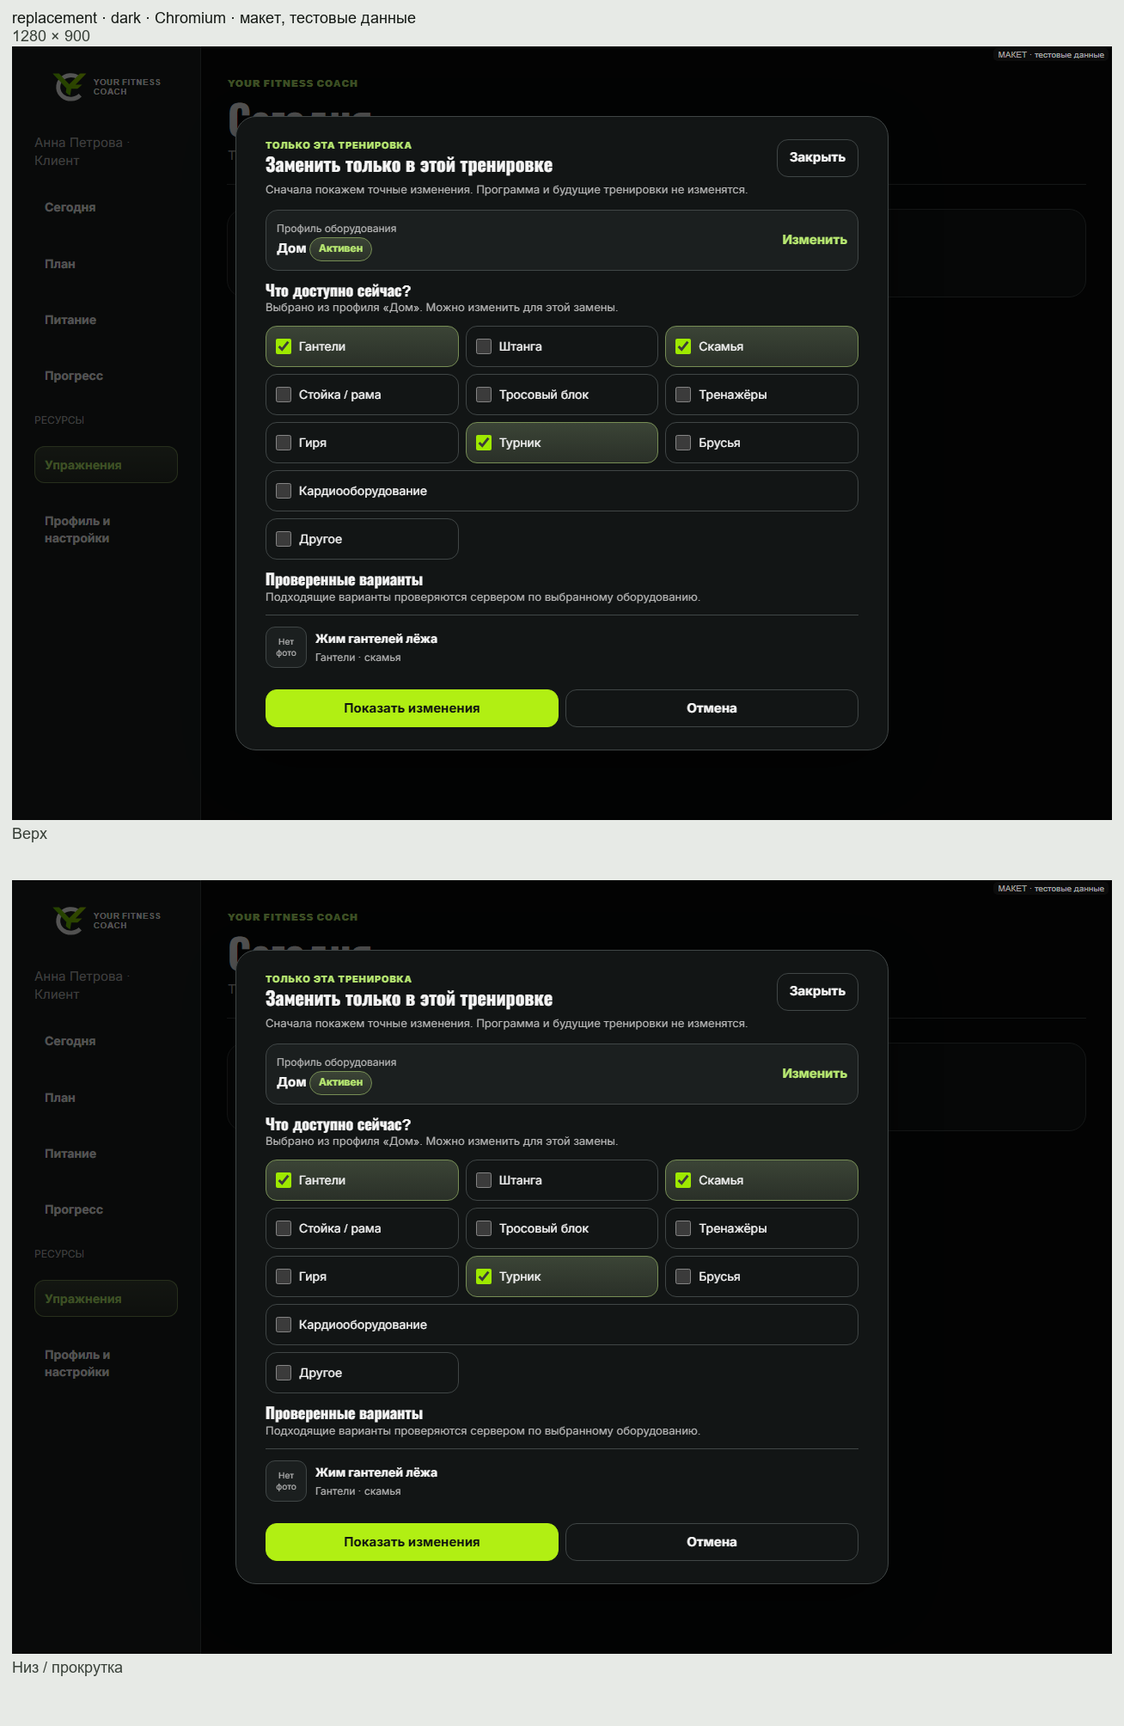
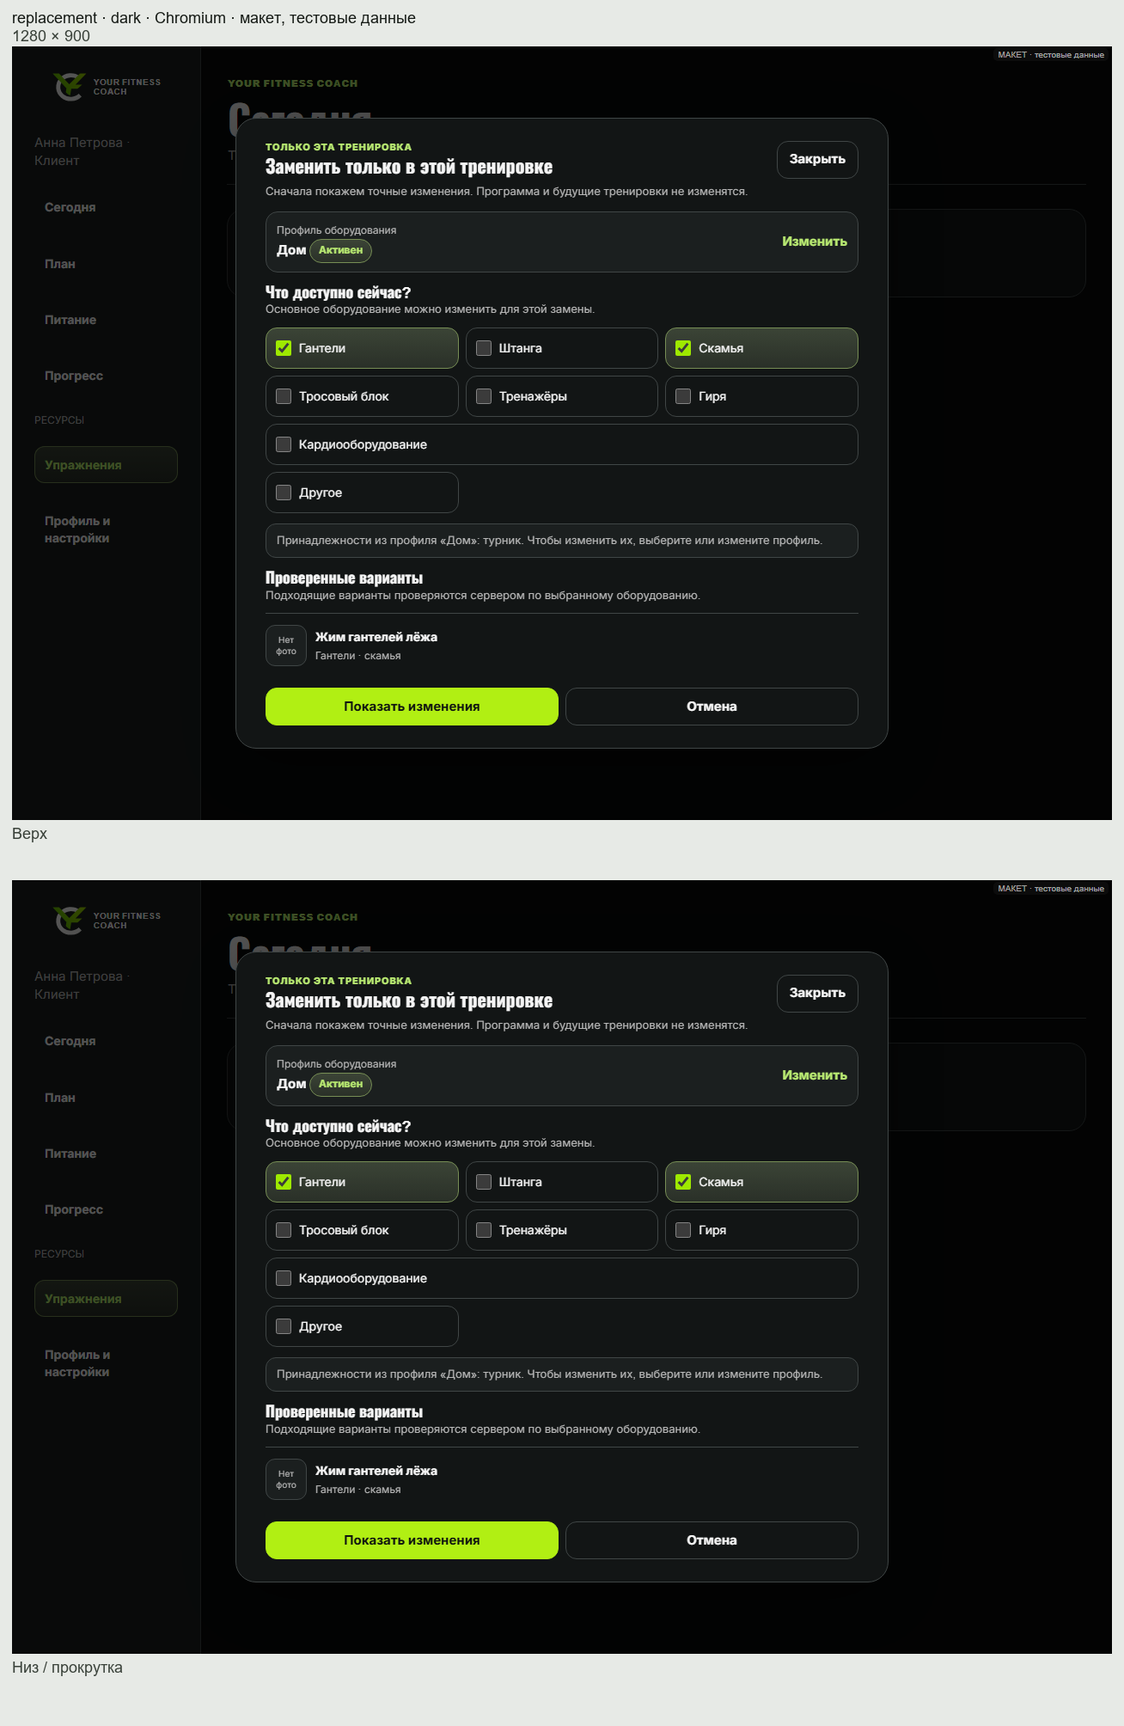
docs: clarify profile equipment in replacement mockup

diff --git a/docs/ux-proposals/issue-1203/prototype.html b/docs/ux-proposals/issue-1203/prototype.html
@@ -22,7 +22,7 @@ const profileContext=(name='Дом',destination='profiles')=>`<div class="contex
 const exercise=(title,details,badge='')=>`<div class="exercise"><div class="thumb">Нет<br>фото</div><div><strong>${title}</strong><small>${details}</small></div>${badge?`<span class="end">${badge}</span>`:''}</div>`;
 const profileRow=(name,details,active=false,editable=true)=>`<div class="profile-row row"><label class="profile-choice"><input type="radio" name="profile" ${active?'checked':''}><span><span class="row-title">${name}</span> ${active?'<span class="pill">Активен</span>':''}<span class="row-meta" style="display:block">${details}</span></span></label>${editable&&name!=='Без профиля'?link('editor-filled','Изменить','button text profile-action'):''}</div>`;
 const equipment=['Гантели','Штанга','Скамья','Стойка / рама','Тросовый блок','Тренажёры','Гиря','Турник','Брусья','Кардиооборудование','Другое'];
-const equipmentGrid=(filled)=>`<div class="choice-grid">${equipment.map(name=>{const checked=filled&&['Гантели','Скамья','Турник'].includes(name);return `<label class="equipment-choice ${checked?'checked':''} ${name==='Кардиооборудование'?'wide':''}"><input type="checkbox" ${checked?'checked':''}><span>${name}</span></label>`}).join('')}</div>`;
+const equipmentGrid=(filled,baseOnly=false)=>`<div class="choice-grid">${equipment.filter(name=>!baseOnly||!['Стойка / рама','Турник','Брусья'].includes(name)).map(name=>{const checked=filled&&['Гантели','Скамья','Турник'].includes(name);return `<label class="equipment-choice ${checked?'checked':''} ${name==='Кардиооборудование'?'wide':''}"><input type="checkbox" ${checked?'checked':''}><span>${name}</span></label>`}).join('')}</div>`;
 const app=document.querySelector('#app');
 function profiles(empty=false){return `${hero('Профили оборудования','Выберите набор для поиска упражнений. Программы, веса и история не изменятся.')}<section class="panel profile-layout"><div class="panel-head"><div><h2>Мои профили</h2><p class="hint">Активный профиль используется только для вас.</p></div></div><div class="section-gap">${profileRow('Без профиля','Показывать все упражнения')}${profileRow('Дом','Гантели · скамья · турник',!empty)}${profileRow('Тренажёрный зал','Штанга · стойка · тренажёры и ещё 4')}${profileRow('Поездка','Дополнительное оборудование не выбрано',empty)}</div><div class="section-gap">${link('editor-empty','Создать профиль','button primary full')}</div></section>`}
 function editor(filled,notice=''){const messages={offline:'<strong>Нет подключения</strong><br>Изменения пока не сохранены на сервере. Повторите сохранение после восстановления связи.',conflict:'<strong>Профиль изменён на другом устройстве</strong><br>Ваши изменения не сохранены. Загрузите актуальный профиль и проверьте его перед повторным сохранением.',error:'<strong>Не удалось сохранить профиль</strong><br>Проверьте подключение и повторите. Ваши изменения остаются на экране.'};return `${hero(filled?'Изменить профиль':'Новый профиль','Укажите оборудование, которое действительно доступно в этом месте.')}<section class="panel profile-layout stack">${notice?`<div class="offline" role="status">${messages[notice]}</div>`:''}<label><span class="field-label">Название профиля</span><input type="text" value="${filled?'Дом':''}" placeholder="Например, Дом или Поездка"></label><div><h3>Что доступно?</h3><p class="hint">Собственный вес доступен всегда. Отметьте также скамью, турник и другие необходимые принадлежности.</p></div>${equipmentGrid(filled)}<div class="actions">${link('profiles','Сохранить','button primary')}${link('profiles','Отмена')}</div>${filled?link('delete-confirm','Удалить профиль','button text'):''}</section>`}
@@ -30,7 +30,7 @@ function catalog(mode){const noProfile=mode==='no-profile',all=mode==='all',empt
 function pickerContents(all=false){return `<input type="search" placeholder="Начните вводить название">${profileContext('Дом','picker-profile')}<div class="section-gap">${segments(all?'all':'available','picker')}</div><div class="section-gap row"><small>Найдено: ${all?'5':'3'}</small>${all?'':'<small>Скрыто: 2</small>'}</div>${exercise('Приседания с гантелями','Ноги · гантели')}${exercise('Жим гантелей лёжа','Грудь · гантели и скамья')}${all?exercise('Жим ногами','Ноги · тренажёр'):''}${exercise('Моё упражнение','Своё · оборудование нужно проверить','Проверить')}${all?exercise('Тяга верхнего блока','Спина · тросовый блок'):''}<p class="hint section-gap">Упражнения с неизвестным оборудованием остаются видимыми.</p>`}
 function builder(all=false){return `${hero('Создать или импортировать','Текущая программа, настройки и быстрые действия.','ПЛАН / МОЯ ПРОГРАММА')}<section class="panel"><h2>Создать свою программу</h2><div class="section-gap eyebrow">ШАГ 2</div><h3>Тренировочные дни</h3><div class="builder-cols section-gap"><aside class="builder-side"><strong>Дни программы</strong><div class="builder-row">День 1<br><small>Тренировка 1</small></div></aside><div class="builder-day"><span class="field-label">Название дня</span><div class="select-mock">Тренировка 1</div><div class="section-gap row"><h3>Упражнения</h3><small>0 упр.</small></div><div class="builder-row">1 &nbsp; Выберите упражнение</div><div class="section-gap">Добавить упражнение</div></div><aside class="builder-side"><div class="eyebrow">ДЕНЬ 1 · УПРАЖНЕНИЕ 1</div><h3 class="section-gap">Выберите упражнение</h3><p class="hint section-gap">Поиск упражнения</p><div class="picker-inline section-gap">${pickerContents(all)}</div></aside></div></section>`}
 function picker(all=false){return `${builder(all)}<div class="dialog-backdrop picker-mobile"><section class="dialog picker-dialog" role="dialog" aria-label="Выбор упражнения"><div class="panel-head"><h2>Выбор упражнения</h2>${link('profiles','Закрыть')}</div>${pickerContents(all)}</section></div>`}
-function replacement(){return `${hero('Сегодня','Тренировка по вашей программе.','YOUR FITNESS COACH')}<section class="panel"><h2>Тренировка 1</h2><p class="hint section-gap">Жим штанги лёжа</p></section><div class="dialog-backdrop"><section class="dialog" role="dialog" aria-label="Заменить только в этой тренировке"><div class="panel-head"><div><div class="eyebrow">ТОЛЬКО ЭТА ТРЕНИРОВКА</div><h2>Заменить только в этой тренировке</h2><p class="hint">Сначала покажем точные изменения. Программа и будущие тренировки не изменятся.</p></div>${link('profiles','Закрыть')}</div><div class="stack">${profileContext('Дом','replacement-profile')}<div><h3>Что доступно сейчас?</h3><p class="hint">Выбрано из профиля «Дом». Можно изменить для этой замены.</p></div>${equipmentGrid(true)}<div><h3>Проверенные варианты</h3><p class="hint">Подходящие варианты проверяются сервером по выбранному оборудованию.</p></div>${exercise('Жим гантелей лёжа','Гантели · скамья')}<div class="actions">${link('replacement','Показать изменения','button primary')}${link('catalog-all','Отмена')}</div></div></section></div>`}
+function replacement(){return `${hero('Сегодня','Тренировка по вашей программе.','YOUR FITNESS COACH')}<section class="panel"><h2>Тренировка 1</h2><p class="hint section-gap">Жим штанги лёжа</p></section><div class="dialog-backdrop"><section class="dialog" role="dialog" aria-label="Заменить только в этой тренировке"><div class="panel-head"><div><div class="eyebrow">ТОЛЬКО ЭТА ТРЕНИРОВКА</div><h2>Заменить только в этой тренировке</h2><p class="hint">Сначала покажем точные изменения. Программа и будущие тренировки не изменятся.</p></div>${link('profiles','Закрыть')}</div><div class="stack">${profileContext('Дом','replacement-profile')}<div><h3>Что доступно сейчас?</h3><p class="hint">Основное оборудование можно изменить для этой замены.</p></div>${equipmentGrid(true,true)}<div class="notice">Принадлежности из профиля «Дом»: турник. Чтобы изменить их, выберите или измените профиль.</div><div><h3>Проверенные варианты</h3><p class="hint">Подходящие варианты проверяются сервером по выбранному оборудованию.</p></div>${exercise('Жим гантелей лёжа','Гантели · скамья')}<div class="actions">${link('replacement','Показать изменения','button primary')}${link('catalog-all','Отмена')}</div></div></section></div>`}
 function chooseProfile(from){return `${from==='picker'?builder():hero('Сегодня','Тренировка по вашей программе.','YOUR FITNESS COACH')}<div class="dialog-backdrop"><section class="dialog picker-dialog" role="dialog" aria-label="Выбрать профиль"><h2>Выбрать профиль</h2><p class="hint section-gap">Профиль меняет список вариантов. ${from==='picker'?'Черновик программы останется открытым.':'Тренировка останется без изменений.'}</p><div class="section-gap">${profileRow('Без профиля',from==='picker'?'Показать все упражнения':'Выбрать оборудование вручную',false,false)}${profileRow('Дом','Гантели · скамья · турник',true,false)}${profileRow('Тренажёрный зал','Штанга · стойка · тренажёры',false,false)}${profileRow('Поездка','Дополнительное оборудование не выбрано',false,false)}</div><div class="actions section-gap">${link(from,'Выбрать','button primary')}${link(from,'Отмена')}</div><p class="hint section-gap">Профили можно изменить в настройках.</p></section></div>`}
 function deleteConfirm(){return `${profiles()}<div class="dialog-backdrop"><section class="dialog picker-dialog" role="dialog" aria-label="Удалить профиль"><div class="stack"><h2>Удалить профиль «Дом»?</h2><p class="hint">Программы, веса и история не изменятся. Пока не выбран другой профиль, будут показаны все упражнения.</p><div class="actions">${link('profiles','Удалить профиль')}${link('profiles','Отмена','button primary')}</div></div></section></div>`}
 if(state==='profiles')app.innerHTML=profiles();else if(state==='profile-empty')app.innerHTML=profiles(true);else if(state==='editor-empty')app.innerHTML=editor(false);else if(state==='editor-filled')app.innerHTML=editor(true);else if(['offline','conflict','error'].includes(state))app.innerHTML=editor(true,state);else if(state==='delete-confirm')app.innerHTML=deleteConfirm();else if(state==='catalog-none')app.innerHTML=catalog('no-profile');else if(state==='catalog-empty')app.innerHTML=catalog('empty');else if(state==='catalog-empty-profile')app.innerHTML=catalog('empty-profile');else if(state==='catalog-all')app.innerHTML=catalog('all');else if(state==='picker')app.innerHTML=picker();else if(state==='picker-all')app.innerHTML=picker(true);else if(state==='picker-profile')app.innerHTML=chooseProfile('picker');else if(state==='replacement')app.innerHTML=replacement();else if(state==='replacement-profile')app.innerHTML=chooseProfile('replacement');else app.innerHTML=catalog('available');

diff --git a/docs/ux-proposals/issue-1203/README.md b/docs/ux-proposals/issue-1203/README.md
@@ -30,7 +30,7 @@
 | Выбор упражнения в программе: доступные | [mobile](screens/picker-dark-mobile.png) · [desktop](screens/picker-dark-desktop.png) | [mobile](screens/picker-light-mobile.png) · [desktop](screens/picker-light-desktop.png) |
 | Выбор упражнения в программе: все | [mobile](screens/picker-all-dark-mobile.png) · [desktop](screens/picker-all-dark-desktop.png) | [mobile](screens/picker-all-light-mobile.png) · [desktop](screens/picker-all-light-desktop.png) |
 | Выбор профиля в конструкторе | [mobile](screens/picker-profile-dark-mobile.png) · [desktop](screens/picker-profile-dark-desktop.png) | [mobile](screens/picker-profile-light-mobile.png) · [desktop](screens/picker-profile-light-desktop.png) |
-| Существующий диалог безопасной замены | [mobile](screens/replacement-dark-mobile.png) · [desktop](screens/replacement-dark-desktop.png) | [mobile](screens/replacement-light-mobile.png) · [desktop](screens/replacement-light-desktop.png) |
+| Существующий диалог безопасной замены | [320/360](screens/replacement-dark-320-360.png) · [393/430](screens/replacement-dark-393-430.png) · [desktop](screens/replacement-dark-desktop.png) | [320/360](screens/replacement-light-320-360.png) · [393/430](screens/replacement-light-393-430.png) · [desktop](screens/replacement-light-desktop.png) |
 | Выбор профиля для замены | [mobile](screens/replacement-profile-dark-mobile.png) · [desktop](screens/replacement-profile-dark-desktop.png) | [mobile](screens/replacement-profile-light-mobile.png) · [desktop](screens/replacement-profile-light-desktop.png) |
 | Нет подключения | [mobile](screens/offline-dark-mobile.png) · [desktop](screens/offline-dark-desktop.png) | [mobile](screens/offline-light-mobile.png) · [desktop](screens/offline-light-desktop.png) |
 | Одновременное изменение | [mobile](screens/conflict-dark-mobile.png) · [desktop](screens/conflict-dark-desktop.png) | [mobile](screens/conflict-light-mobile.png) · [desktop](screens/conflict-light-desktop.png) |
@@ -76,8 +76,9 @@
   требованиями остаются видимыми с пометкой «Проверить». Упражнения без дополнительных
   принадлежностей могут быть показаны как доступные.
 - Выбор профиля не изменяет программу, рабочие веса или историю. В конструкторе выбор профиля
-  сохраняет текущий черновик. В замене пользователь может изменить оборудование для конкретного
-  действия; совместимость и применение остаются на сервере.
+  сохраняет текущий черновик. В замене пользователь может изменить основное оборудование для
+  конкретного действия; дополнительные принадлежности берутся из выбранного профиля. Совместимость
+  и применение остаются на сервере.
 - Ошибки сети и конфликт версий сохраняют введённые данные на экране; успешное сохранение нельзя
   показывать до ответа сервера.
 
